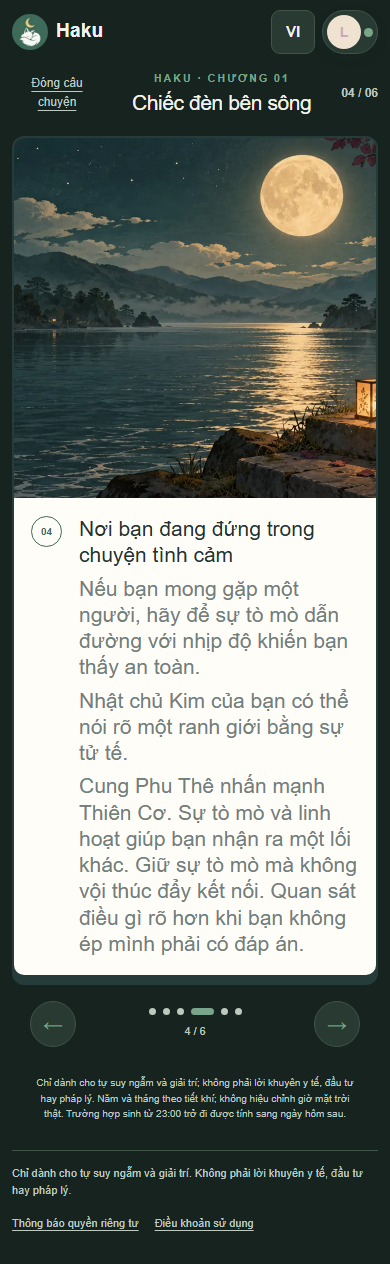
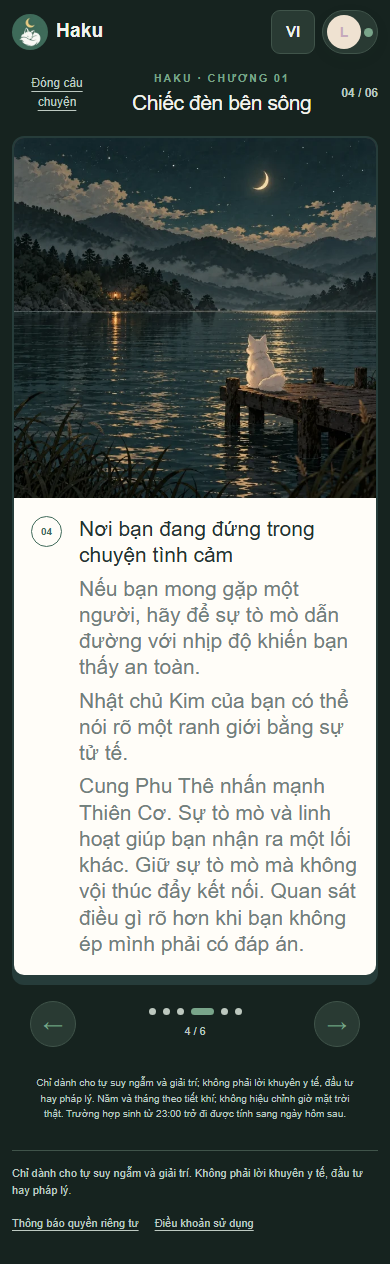
feat: publish selected story illustrations

Changed region(s): [[0.0308, 0.0926, 0.9846, 0.4011]]

diff --git a/README.md b/README.md
@@ -149,9 +149,9 @@ The checked-in validation compares the generated UTC minutes with published tabl
 
 ### Story illustration library
 
-The six-page reader uses a 51-scene square illustration plan: five-element scenes, the current love theme, reserved wealth/career/social theme scenes, and a published fallback. The public `art/illustrations/scenes.json` contains only scene IDs, page numbers, and selection rules. Illustration prompts are stored locally under `art/illustrations/private/` and are not committed. The local authoring script refreshes both the private files and the prompt-free public scene index. The two compressed files in `art/illustrations/reference/` come from the user-provided project-root images `月下白狐与灯-4.png` and `月下河畔的白狐-2.png`; the original PNG files and the two square logo images are not committed or used as references. These reference images contain no user data.
+The six-page reader uses a 51-scene square illustration plan: five-element scenes, the current love theme, reserved wealth/career/social theme scenes, and a published fallback. The public `art/illustrations/scenes.json` contains only scene IDs, page numbers, and selection rules. Illustration prompts are stored locally under `art/illustrations/private/` and are not committed. The local authoring script refreshes both the private files and the prompt-free public scene index. The two compressed files in `art/illustrations/reference/` come from Haku-owned project artwork, `月下白狐与灯-4.png` and `月下河畔的白狐-2.png`; the original PNG files and the two square logo images are not committed. The published illustration library was generated with Codex's built-in `image_gen` using those files only as visual references. Neither the references nor generation inputs contain Haku user data.
 
-Candidate generation is a local-only authoring step using the OpenAI Images edit API with both reference images. It never runs in the browser, server, Docker image, or production environment, and no Haku user data is sent to the image service. The API key is read only from `OPENAI_API_KEY`; the model and current per-image price are explicit environment configuration so a stale model or price is never assumed:
+The optional candidate-generation script is a local-only authoring tool using the OpenAI Images edit API with both reference images. It never runs in the browser, server, Docker image, or production environment, and no Haku user data is sent to the image service. The API key is read only from `OPENAI_API_KEY`; the model and current per-image price are explicit environment configuration so a stale model or price is never assumed:
 
 ```sh
 OPENAI_IMAGE_MODEL=<supported-edit-model> OPENAI_IMAGE_UNIT_PRICE_USD=<price> node scripts/generate-illustrations.mjs

diff --git a/THIRD_PARTY_NOTICES.md b/THIRD_PARTY_NOTICES.md
@@ -1,5 +1,9 @@
 # Third-party notices
 
+## Haku story illustrations
+
+The published story illustrations were generated with Codex's built-in `image_gen`. The visual references are Haku-owned artwork stored in `art/illustrations/reference/`. Illustration generation did not use or transmit Haku user data.
+
 ## iztro 2.6.3
 
 - Author: SylarLong and contributors
